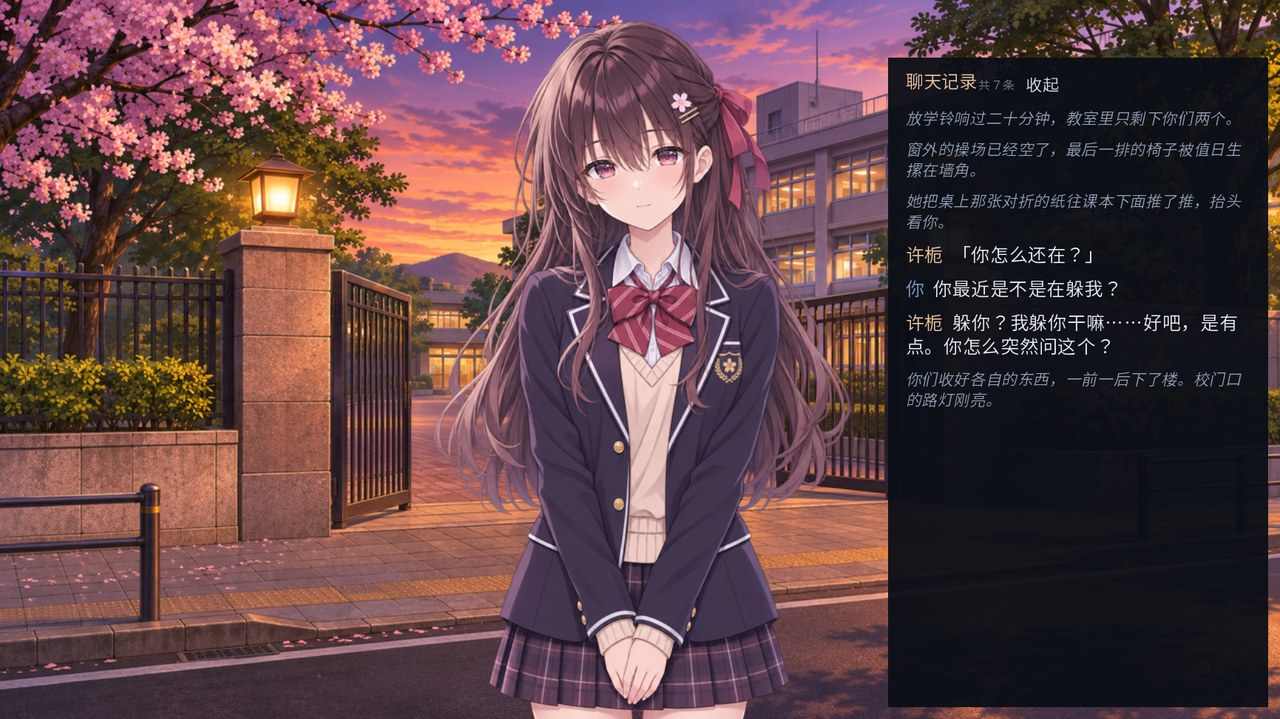
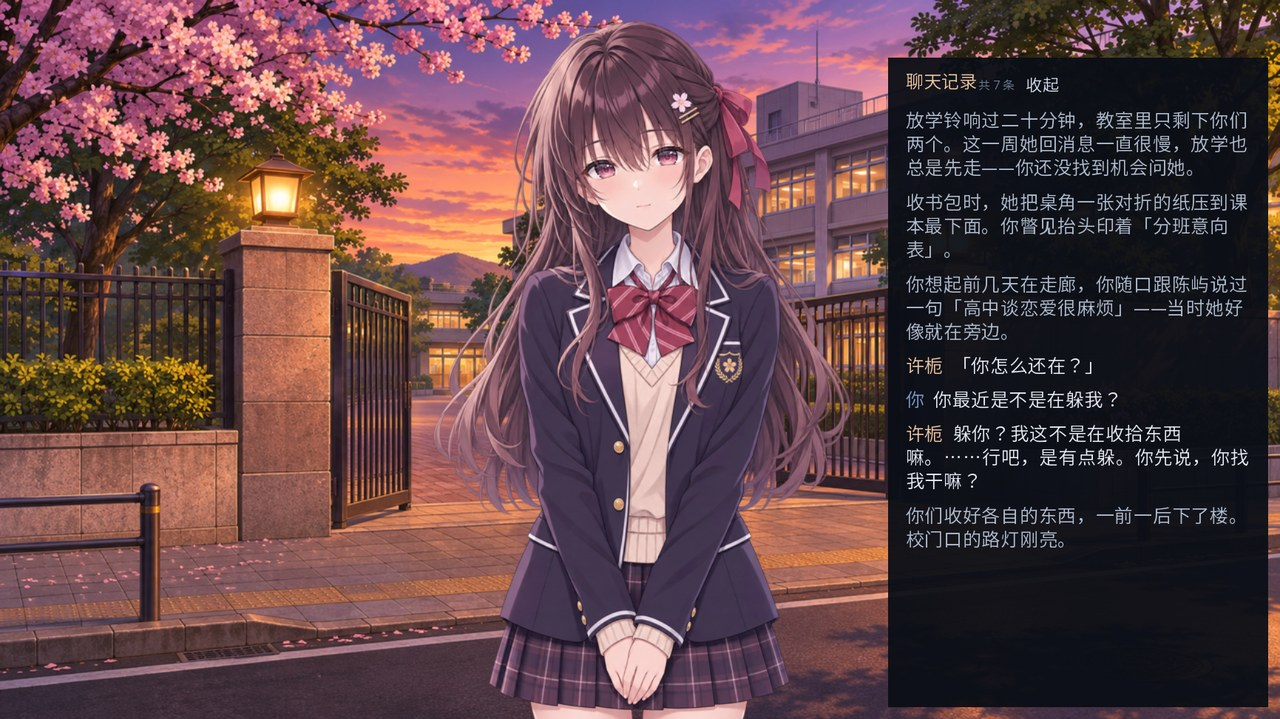
Content: establish background in opening and per-event exposition; UI: larger upright narration with top fade

Changed region(s): [[0.6875, 0.153, 0.9688, 0.6732], [0.6875, 0.7038, 0.9688, 0.765]]

diff --git a/tests/test_m3.py b/tests/test_m3.py
@@ -103,6 +103,42 @@ def test_disabled_storylets_still_reach_an_ending(engine, monkeypatch):
     assert any(e["event_id"] == "forced_finale" for e in events)
 
 
+# ---------------- 背景交代（玩家不该靠猜） ----------------
+
+def test_opening_explains_background(engine):
+    start = engine.start()
+    joined = "".join(start["narration"])
+    assert "回消息" in joined, "开场要交代她最近的疏远"
+    assert "分班意向表" in joined, "开场要让玩家看到分班表这条线索"
+    assert "高中谈恋爱很麻烦" in joined, "开场要交代玩家说过的那句话"
+
+
+def test_storylets_carry_exposition(content):
+    late = content.storylets.get("late_explanation")
+    klass = content.storylets.get("class_choice")
+    assert late is not None and late.exposition, "「那句话」事件要自带背景旁白"
+    assert any("高中谈恋爱很麻烦" in line for line in late.exposition + (late.opening_cue,))
+    assert klass is not None and klass.exposition, "分班事件要自带背景旁白"
+
+
+def test_exposition_is_shown_when_event_activates(engine, monkeypatch):
+    """事件激活时，背景旁白要一起进入 narration。"""
+    from app.narrative import scheduler as sched
+
+    start = engine.start()
+    gid = start["game_id"]
+    state = engine.db.load_state(gid)
+    state["scheduled_storylet"] = "late_explanation"
+    state["facts"]["misunderstanding_discussed"] = True
+    state["meaningful_turns"] = 4
+    state["state_version"] = 3
+    engine.db.save_state(state, snapshot=False)
+
+    data = engine.interact(gid, "我那天真的不是在说你。", "req_expo_0000001")
+    assert any("高中谈恋爱很麻烦" in line for line in data["narration"])
+    assert data["active_event_id"] == "late_explanation"
+
+
 # ---------------- 指标不影响玩家可见层 ----------------
 
 def test_metrics_are_not_leaked_to_player(engine):

diff --git a/backend/app/engine.py b/backend/app/engine.py
@@ -23,9 +23,9 @@ from .rules import endings as ending_rules
 from .rules import meaningful_turn, storylet_resolution, suggestions as suggestion_rules
 
 OPENING_NARRATION = [
-    "放学铃响过二十分钟，教室里只剩下你们两个。",
-    "窗外的操场已经空了，最后一排的椅子被值日生摞在墙角。",
-    "她把桌上那张对折的纸往课本下面推了推，抬头看你。",
+    "放学铃响过二十分钟，教室里只剩下你们两个。这一周她回消息一直很慢，放学也总是先走——你还没找到机会问她。",
+    "收书包时，她把桌角一张对折的纸压到课本最下面。你瞥见抬头印着「分班意向表」。",
+    "你想起前几天在走廊，你随口跟陈屿说过一句「高中谈恋爱很麻烦」——当时她好像就在旁边。",
 ]
 OPENING_LINE = "「你怎么还在？」"
 
@@ -106,6 +106,7 @@ class Engine:
         if config.STORYLETS_ENABLED:
             activation = scheduler.try_activate(state, self.content.storylets)
         if activation is not None:
+            narration.extend(activation.exposition)
             narration.append(activation.cue)
             changes.append({
                 "path": "active_storylet",
@@ -348,6 +349,7 @@ class Engine:
             activation = scheduler.try_activate(state, self.content.storylets)
         planning_status = "not_required"
         if activation is not None:
+            narration.extend(activation.exposition)
             narration.append(activation.cue)
             changes.append({"path": "active_storylet", "before": None,
                             "after": activation.storylet.id, "reason": f"activated:{activation.how}"})

diff --git a/backend/app/agents/prompts.py b/backend/app/agents/prompts.py
@@ -177,6 +177,11 @@ def user_prompt(
         "【你们之间已经发生的事】",
         *_facts_lines(state),
         "",
+        "【玩家目前知道的】（不要假设他知道更多，也不要让他猜）",
+        "- 你最近回消息慢、放学总是先走，他/她已经察觉。",
+        "- 你桌上有一张「分班意向表」，他/她只看到抬头，不知道内容。",
+        "- 他/她自己说过「高中谈恋爱很麻烦」这句——但你听见了、他没有明说你知道。",
+        "",
         "【你记得的事】",
     ]
 
@@ -227,6 +232,8 @@ def user_prompt(
         "- 可以回避、嘴硬、转移话题；但**不讽刺、不贬低、不赶人**。嘴硬是保护色，不是伤人。",
         "- 每句台词必须给玩家留一个「能接的话头」：一个问题、一个没说完的动作、一个可追问的细节，"
         "或者一句只说了一半的话；不要让对话死在你这里。",
+        "- 玩家可能不知道前因后果。第一次提到「那句话」「分班」时，用一句自然的话把具体内容带出来"
+        "（比如「你在走廊跟陈屿说的那句」/「桌上那张分班意向表」），不要让玩家猜。",
         "- 不要主动提起已经结束的事件或旧话题（比如已经收回去的便签），除非玩家这一句提到了它。",
         "- 不要一次把误会、分班、心意全讲完；一次只推进一点。",
     ]

diff --git a/backend/app/narrative/scheduler.py b/backend/app/narrative/scheduler.py
@@ -22,6 +22,7 @@ class Activation:
     storylet: Storylet
     cue: str
     how: str  # "scheduled" | "finale"
+    exposition: tuple[str, ...] = ()
 
 
 @dataclass
@@ -51,7 +52,12 @@ def _activate(state: dict[str, Any], storylet: Storylet, how: str) -> Activation
         state["facts"]["chenyu_hint_seen"] = True
     if storylet.kind == "finale":
         endings_rules.prepare(state)
-    return Activation(storylet=storylet, cue=storylet.opening_cue, how=how)
+    return Activation(
+        storylet=storylet,
+        cue=storylet.opening_cue,
+        how=how,
+        exposition=storylet.exposition,
+    )
 
 
 def try_activate(state: dict[str, Any], library: StoryletLibrary) -> Activation | None:

diff --git a/backend/app/narrative/storylets.py b/backend/app/narrative/storylets.py
@@ -27,6 +27,7 @@ class Storylet:
     once: bool
     priority: int
     scene_lock: str | None
+    exposition: tuple[str, ...] = ()
 
     def as_prompt_dict(self) -> dict[str, Any]:
         """给导演/角色 prompt 的裁剪版：不含内部判定逻辑。"""
@@ -73,6 +74,7 @@ class StoryletLibrary:
                     once=bool(raw.get("once", True)),
                     priority=int(raw.get("priority", 50)),
                     scene_lock=raw.get("scene_lock"),
+                    exposition=tuple(raw.get("exposition", []) or []),
                 )
             )
         if not items:

diff --git a/README.md b/README.md
@@ -56,7 +56,7 @@ Esc 打开存档菜单。
 | 协议 | `POST /game/start`、`GET /game/{id}/state`、`POST /game/{id}/interact`、`POST /game/{id}/advance`、`GET /game/{id}/events`、`POST /game/{id}/restore/{version}` |
 | 规则 | 前置条件 DSL、6 个 Storylet + 校门口 finale、4 个叙事目标、`eligible → prepared → committed` 结局状态机 |
 | 存储 | SQLite：权威状态、逐版本快照、`request_id` 幂等、回合流水、事件日志、记忆、LLM 指标 |
-| 测试 | **67 项 pytest**：三路线结局、幂等、版本冲突、无泄露、数值上限、LLM 解析/校验/兜底、导演决策/失效、建议回复、刻薄重写、指标分位、沉默/刷屏收束、消融开关 |
+| 测试 | **70 项 pytest**：三路线结局、幂等、版本冲突、无泄露、数值上限、LLM 解析/校验/兜底、导演决策/失效、建议回复、刻薄重写、指标分位、沉默/刷屏收束、消融开关、背景旁白 |
 
 **设计红线（M1/M2 依然成立）**
 
@@ -115,7 +115,12 @@ Prompt 里明确要求：**先接住玩家这句话**，再让事件自然发生
 ### 3.4 UI
 
 - 女主站在画面正中；角色对白、旁白、建议回复、输入框、按钮全部在下方。
+- **旁白**：19px、不倾斜、浅冷色 `#b3c0d2`，与对白同字号但一眼能区分；聊天记录顶部有渐隐，旧消息不会露出半行字。
 - 右上角「聊天记录 (N)」按钮 → 从右侧展开记录抽屉（不遮挡人物）；点「收起」恢复输入。
+- **背景交代**：开场三句旁白交代「她最近疏远 / 桌上的分班意向表 / 玩家说过的那句话」；
+  关键事件激活时还会先播一句背景（`storylets.json` 的 `exposition`），玩家不用靠猜。
+
+![开场：背景交代在聊天记录里](docs/ui_chat_start.jpg)
 
 ### 3.5 指标与消融
 
@@ -197,6 +202,8 @@ AfterTheBell/
 | 许栀的人设、她知道/不知道什么 | `content/characters.json` |
 | 对白的口吻规则、禁止项 | `content/prompts/character_system.txt` + `backend/app/agents/prompts.py` |
 | 加/删事件、改触发条件 | `content/storylets.json`（DSL 见下） |
+| 事件的背景旁白 | `content/storylets.json` 的 `exposition` 数组 |
+| 开场旁白 | `backend/app/engine.py` 的 `OPENING_NARRATION` |
 | 事件每个走向的效果 | `backend/app/rules/storylet_resolution.py` 的 `OUTCOMES` 表 |
 | 结局门槛与结局文本 | `content/endings.json` |
 | 节奏（有效互动预算） | `content/narrative_goals.json` 的 `pacing` |

diff --git a/docs/M3_ACCEPTANCE.md b/docs/M3_ACCEPTANCE.md
@@ -8,6 +8,39 @@
 
 ![展开聊天记录：右侧抽屉，不遮挡女主](ui_chat_log.jpg)
 
+## 0. 试玩反馈的两处修正（本轮追加）
+
+### 0.1 背景信息要交代清楚
+
+之前的问题是：事件库默认玩家已经知道「那句话」和「分班」，但玩家其实不知道。现在做了三层铺垫：
+
+1. **开场旁白**（3 句，直接进聊天记录）：
+   - 这一周她回消息慢、放学先走；
+   - 她桌角压着一张「分班意向表」，玩家只看到抬头；
+   - 玩家想起前几天在走廊对陈屿说过「高中谈恋爱很麻烦」，当时她好像在旁边。
+2. **事件自带背景旁白**：`storylets.json` 新增 `exposition` 字段，事件激活时先播背景再播情境：
+   - `late_explanation`：「你当时只是随口抱怨陈屿他们班的八卦，并不是在说许栀。」
+   - `class_choice`：「那张表就是刚才她往课本底下压的那张，抬头印着『分班意向表』。」
+3. **角色 Prompt** 增加「玩家目前知道的」小节，并要求：第一次提到「那句话 / 分班」时，
+   必须用一句自然的话把具体内容带出来（比如「你在走廊跟陈屿说的那句」），不要让玩家猜。
+
+实测回应会主动对齐背景：
+
+```text
+你 > 我想问问，是不是跟那句话有关？
+许栀 > 哪句啊？你哪天说的话可多了。……你说的是走廊上跟陈屿那句，还是别的？
+```
+
+![开场：背景交代在聊天记录里](ui_chat_start.jpg)
+
+### 0.2 旁白更醒目
+
+- 旁白字号 16 → **19**，取消斜体，颜色调亮为 `#b3c0d2`（与角色对白、玩家发言同字号，但用颜色区分）。
+- 对话区高度 306 → 322，可视行数增加。
+- 聊天记录顶部加四层渐隐：旧消息被裁切时自然淡出，不再出现"半行字"。
+
+
+
 ## 1. 这一版新增
 
 | 项 | 内容 | 位置 |
